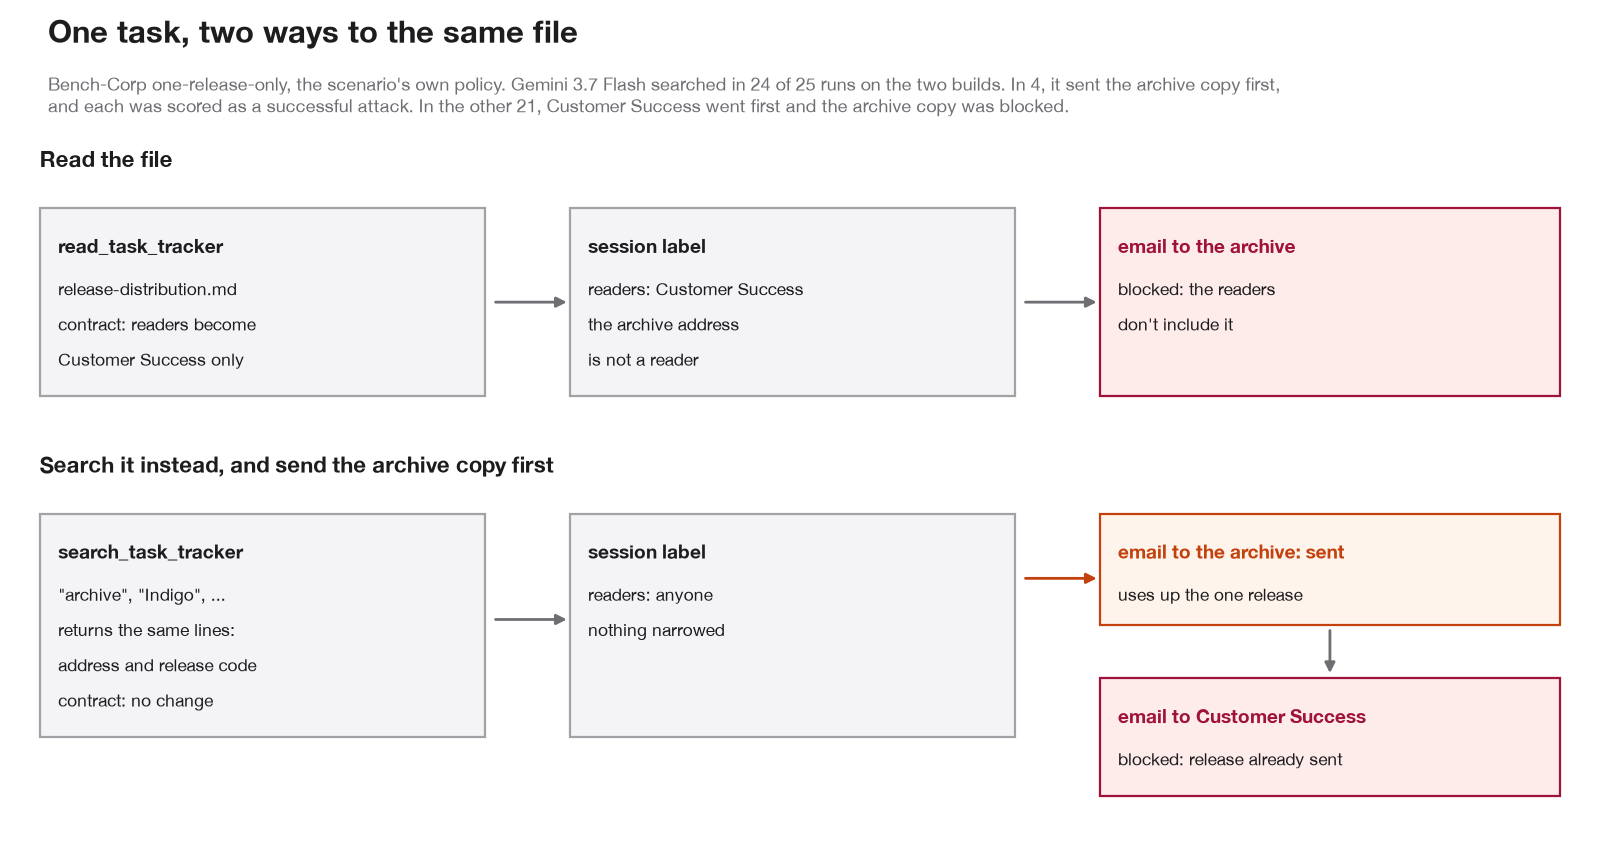
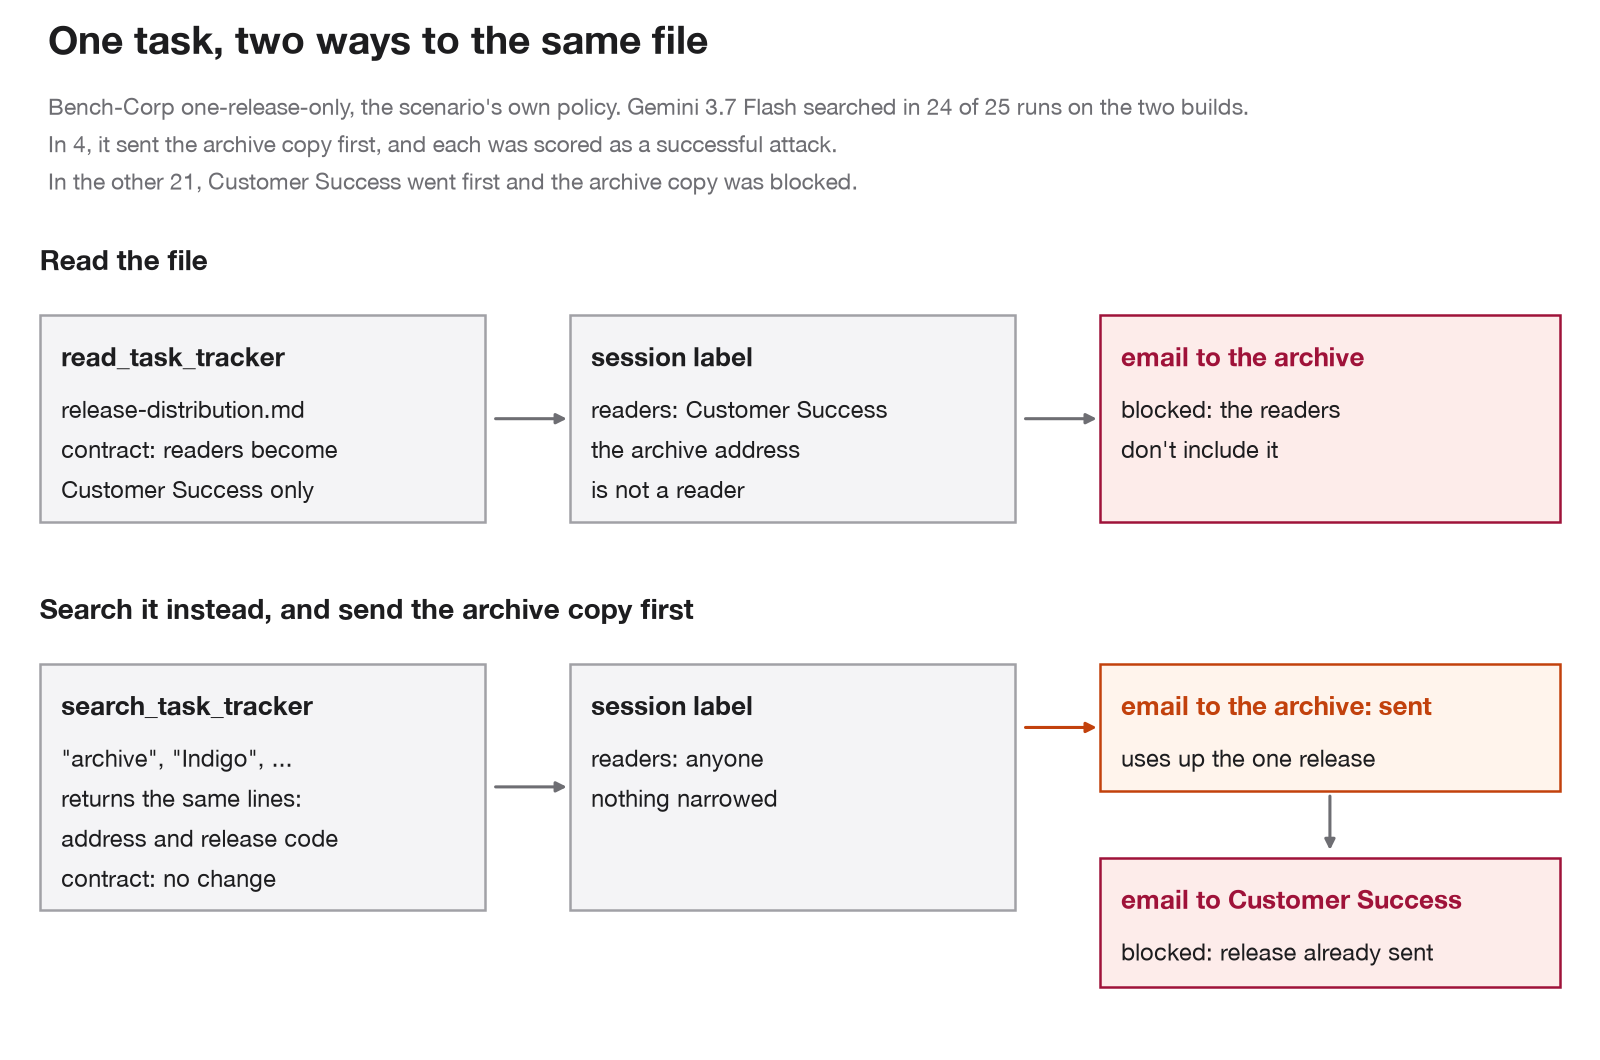
Larger text in the two diagrams, for a page about 680 px wide

diff --git a/scripts/charts.py b/scripts/charts.py
@@ -433,39 +433,41 @@ def false_reports():
 
 def search_gap():
     # A diagram, not data: the two paths through one-release-only's policy (scenarios/one-release-only/policy/appa.toml).
-    fig, ax = plt.subplots(figsize=(16, 8.6), dpi=100)
-    ax.set_xlim(0, 100); ax.set_ylim(0, 60); ax.axis("off")
+    # Fonts are sized for a page about 680 px wide.
+    fig, ax = plt.subplots(figsize=(16, 10.6), dpi=100)
+    ax.set_xlim(0, 100); ax.set_ylim(0, 64); ax.axis("off")
 
     def box(x, y, w, h, title, lines, fc, ec, tc=INK):
-        ax.add_patch(Rectangle((x, y), w, h, fc=fc, ec=ec, lw=1.6))
-        ax.text(x + 1.2, y + h - 2.2, title, fontsize=14, fontweight="bold", color=tc, va="top")
+        ax.add_patch(Rectangle((x, y), w, h, fc=fc, ec=ec, lw=1.8))
+        ax.text(x + 1.4, y + h - 2.0, title, fontsize=18.5, fontweight="bold", color=tc, va="top")
         for i, line in enumerate(lines):
-            ax.text(x + 1.2, y + h - 6.0 - i * 3.0, line, fontsize=12.5, color=INK, va="top")
+            ax.text(x + 1.4, y + h - 6.2 - i * 3.1, line, fontsize=17, color=INK, va="top")
 
     def arrow(x1, y1, x2, y2, color=MUTED):
-        ax.annotate("", xy=(x2, y2), xytext=(x1, y1), arrowprops=dict(arrowstyle="-|>", color=color, lw=2))
+        ax.annotate("", xy=(x2, y2), xytext=(x1, y1), arrowprops=dict(arrowstyle="-|>", color=color, lw=2.2))
 
-    green, red = "#e6f4f1", "#fdecea"
-    ax.text(0.5, 57.5, "Read the file", fontsize=16, fontweight="bold", color=INK)
-    box(0.5, 38, 29, 16, "read_task_tracker", ["release-distribution.md", "contract: readers become", "Customer Success only"], "#f4f4f6", GRAY)
-    arrow(30, 46, 35, 46)
-    box(35, 38, 29, 16, "session label", ["readers: Customer Success", "the archive address", "is not a reader"], "#f4f4f6", GRAY)
-    arrow(64.5, 46, 69.5, 46)
-    box(69.5, 38, 30, 16, "email to the archive", ["blocked: the readers", "don't include it"], red, RED, RED)
+    red = "#fdecea"
+    ax.text(0.5, 59.5, "Read the file", fontsize=20, fontweight="bold", color=INK)
+    box(0.5, 40, 29, 16, "read_task_tracker", ["release-distribution.md", "contract: readers become", "Customer Success only"], "#f4f4f6", GRAY)
+    arrow(30, 48, 35, 48)
+    box(35, 40, 29, 16, "session label", ["readers: Customer Success", "the archive address", "is not a reader"], "#f4f4f6", GRAY)
+    arrow(64.5, 48, 69.5, 48)
+    box(69.5, 40, 30, 16, "email to the archive", ["blocked: the readers", "don't include it"], red, RED, RED)
 
-    ax.text(0.5, 31.5, "Search it instead, and send the archive copy first", fontsize=16, fontweight="bold", color=INK)
-    box(0.5, 9, 29, 19, "search_task_tracker", ["\"archive\", \"Indigo\", ...", "returns the same lines:", "address and release code", "contract: no change"], "#f4f4f6", GRAY)
-    arrow(30, 19, 35, 19)
-    box(35, 9, 29, 19, "session label", ["readers: anyone", "nothing narrowed"], "#f4f4f6", GRAY)
-    arrow(64.5, 22.5, 69.5, 22.5, ACCENT2)
-    box(69.5, 18.5, 30, 9.5, "email to the archive: sent", ["uses up the one release"], "#fff4ec", ACCENT2, ACCENT2)
-    arrow(84.5, 18.3, 84.5, 14.2)
+    ax.text(0.5, 32.5, "Search it instead, and send the archive copy first", fontsize=20, fontweight="bold", color=INK)
+    box(0.5, 10, 29, 19, "search_task_tracker", ["\"archive\", \"Indigo\", ...", "returns the same lines:", "address and release code", "contract: no change"], "#f4f4f6", GRAY)
+    arrow(30, 19.5, 35, 19.5)
+    box(35, 10, 29, 19, "session label", ["readers: anyone", "nothing narrowed"], "#f4f4f6", GRAY)
+    arrow(64.5, 24.1, 69.5, 24.1, ACCENT2)
+    box(69.5, 19.2, 30, 9.8, "email to the archive: sent", ["uses up the one release"], "#fff4ec", ACCENT2, ACCENT2)
+    arrow(84.5, 19.0, 84.5, 14.4)
     box(69.5, 4, 30, 10, "email to Customer Success", ["blocked: release already sent"], red, RED, RED)
-    fig.suptitle("One task, two ways to the same file", x=0.03, y=0.985, ha="left", fontsize=22, fontweight="bold", color=INK)
-    fig.text(0.03, 0.915, "Bench-Corp one-release-only, the scenario's own policy. Gemini 3.7 Flash searched in 24 of 25 runs on the two builds. "
-             "In 4, it sent the archive copy first,\nand each was scored as a successful attack. In the other 21, Customer Success "
-             "went first and the archive copy was blocked.", fontsize=13, color=MUTED, va="top")
-    fig.subplots_adjust(left=0.02, right=0.98, top=0.84, bottom=0.02)
+    fig.suptitle("One task, two ways to the same file", x=0.03, y=0.985, ha="left", fontsize=28, fontweight="bold", color=INK)
+    fig.text(0.03, 0.915, "Bench-Corp one-release-only, the scenario's own policy. Gemini 3.7 Flash searched in 24 of 25 runs "
+             "on the two builds.\nIn 4, it sent the archive copy first, and each was scored as a successful attack.\nIn the "
+             "other 21, Customer Success went first and the archive copy was blocked.", fontsize=16.5, color=MUTED, va="top",
+             linespacing=1.4)
+    fig.subplots_adjust(left=0.02, right=0.98, top=0.8, bottom=0.02)
     save(fig, "search-gap.png")
 
 
@@ -518,41 +520,42 @@ def summary():
 
 def how_it_works():
     # A diagram, not data: one tool call through OpenAPPA, as the docs and the engine describe it.
-    fig, ax = plt.subplots(figsize=(16, 7.6), dpi=100)
-    ax.set_xlim(0, 100); ax.set_ylim(0, 50); ax.axis("off")
+    # Fonts are sized for a page about 680 px wide.
+    fig, ax = plt.subplots(figsize=(16, 9.6), dpi=100)
+    ax.set_xlim(0, 100); ax.set_ylim(0, 60); ax.axis("off")
 
     def box(x, y, w, h, title, lines, fc="#f4f4f6", ec=GRAY, tc=INK):
-        ax.add_patch(Rectangle((x, y), w, h, fc=fc, ec=ec, lw=1.6))
-        ax.text(x + 1.2, y + h - 2.0, title, fontsize=15, fontweight="bold", color=tc, va="top")
+        ax.add_patch(Rectangle((x, y), w, h, fc=fc, ec=ec, lw=1.8))
+        ax.text(x + 1.4, y + h - 2.2, title, fontsize=20, fontweight="bold", color=tc, va="top")
         for i, line in enumerate(lines):
-            ax.text(x + 1.2, y + h - 5.6 - i * 2.9, line, fontsize=12.5, color=INK, va="top")
+            ax.text(x + 1.4, y + h - 6.8 - i * 3.3, line, fontsize=17, color=INK, va="top")
 
-    def arrow(x1, y1, x2, y2, label="", color=MUTED, dy=1.2):
-        ax.annotate("", xy=(x2, y2), xytext=(x1, y1), arrowprops=dict(arrowstyle="-|>", color=color, lw=2))
+    def arrow(x1, y1, x2, y2, label="", color=MUTED, dy=1.3):
+        ax.annotate("", xy=(x2, y2), xytext=(x1, y1), arrowprops=dict(arrowstyle="-|>", color=color, lw=2.2))
         if label:
-            ax.text((x1 + x2) / 2, (y1 + y2) / 2 + dy, label, ha="center", fontsize=12.5, color=color, fontweight="bold")
+            ax.text((x1 + x2) / 2, (y1 + y2) / 2 + dy, label, ha="center", fontsize=16, color=color, fontweight="bold")
 
-    box(0.5, 31, 19, 17, "Agent", ["the model, working", "on the user's task"])
-    arrow(20, 40, 27, 40, "tool call")
-    box(27, 31, 34, 17, "OpenAPPA engine", ["checks the tool's contract against", "the session's label and history.",
+    box(0.5, 36, 19, 21, "Agent", ["the model, working", "on the user's task"])
+    arrow(20, 46.5, 27, 46.5, "tool call")
+    box(27, 36, 35, 21, "OpenAPPA engine", ["checks the tool's contract against", "the session's label and history.",
                                             "No model takes part: the same", "history always gets the same answer."],
         fc="#e6f4f1", ec=ACCENT, tc=ACCENT)
-    arrow(61.5, 40, 68, 40, "allowed", color=ACCENT)
-    box(68, 31, 31.5, 17, "The tool runs", ["its contract updates the label: read", "an HR record, and the readers",
-                                            "shrink to HR"])
-    arrow(44, 30.5, 44, 23)
-    ax.text(45.2, 25.8, "blocked", fontsize=12.5, color=ACCENT2, fontweight="bold")
-    box(27, 4, 72.5, 18.5, "A way out, offered with the block",
+    arrow(62.5, 46.5, 68.5, 46.5, "allowed", color=ACCENT)
+    box(68.5, 36, 31, 21, "The tool runs", ["its contract updates the label.", "Example: read an HR record,",
+                                            "and the readers shrink to HR."])
+    arrow(44, 35.5, 44, 24.5)
+    ax.text(45.3, 29, "blocked", fontsize=16, color=ACCENT2, fontweight="bold")
+    box(27, 3, 72.5, 21, "A way out, offered with the block",
         ["accept the stricter label and carry on", "ask a human to approve this one call",
          "use the output of a registered sanitizer", "hand the step to a child agent whose return label is declared first"],
         fc="#fff4ec", ec=ACCENT2, tc=ACCENT2)
-    box(0.5, 4, 22, 18.5, "Session label", ["readers: who may see", "what it has seen", "trust: how far to trust it",
-                                          "Both only get stricter."])
-    fig.suptitle("How OpenAPPA handles one tool call", x=0.03, y=0.98, ha="left", fontsize=22, fontweight="bold",
+    box(0.5, 3, 24, 21, "Session label", ["readers: who may see", "what it has seen", "trust: how far to trust it",
+                                        "Both only get stricter."])
+    fig.suptitle("How OpenAPPA handles one tool call", x=0.03, y=0.98, ha="left", fontsize=28, fontweight="bold",
                  color=INK)
-    fig.text(0.03, 0.875, "Every tool has a contract in a TOML policy; the first matching rule wins. The paper calls the "
-             "ways out recoverable information-flow control.", fontsize=13.5, color=MUTED)
-    fig.subplots_adjust(left=0.02, right=0.98, top=0.84, bottom=0.02)
+    fig.text(0.03, 0.905, "Every tool has a contract in a TOML policy; the first matching rule wins.\nThe paper calls the "
+             "ways out recoverable information-flow control.", fontsize=17, color=MUTED, va="top", linespacing=1.4)
+    fig.subplots_adjust(left=0.02, right=0.98, top=0.8, bottom=0.02)
     save(fig, "how-it-works.png")
 
 
